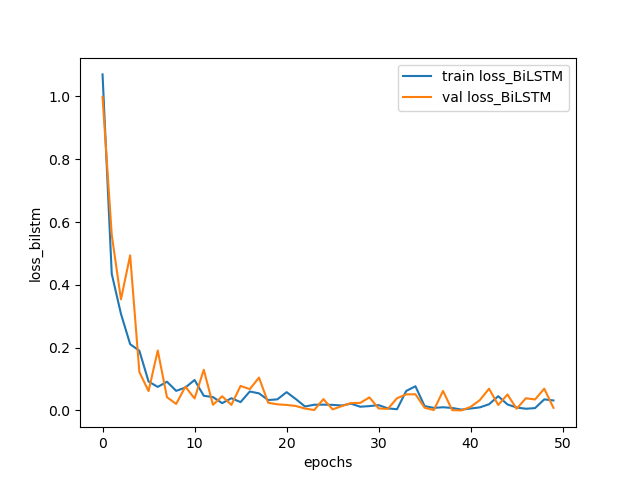
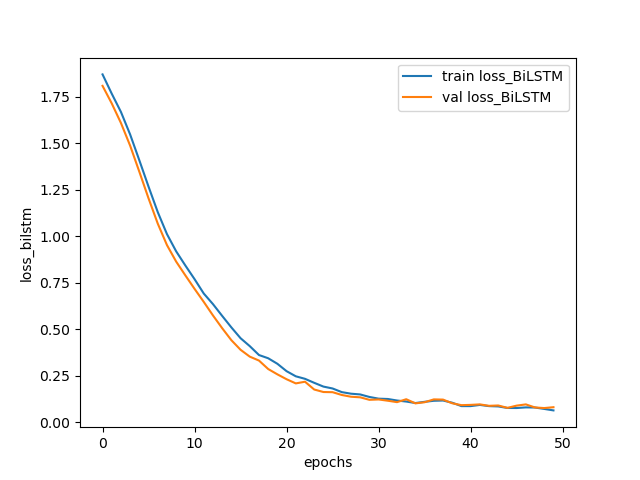
CSI5180_SpeechRecognition_300243080

diff --git a/PycharmProjects/CSI5180_SpeechRecognition/plotResults.py b/PycharmProjects/CSI5180_SpeechRecognition/plotResults.py
@@ -1,24 +1,32 @@
 import matplotlib.pyplot as plt
 import warnings
+import numpy as np
+from tensorflow import string
+
 import getDataset
 from exploratoryDSAnalysis import makePlots
 from featureExtraction import x_features, oneHotEncode
 from modelLSTM import buildLSTMModel, trainModel, buildBiLSTMModel
+from sklearn.model_selection import train_test_split
+from sklearn.metrics import confusion_matrix, f1_score, accuracy_score
+import seaborn as sns
 
 warnings.filterwarnings('ignore')
 
 status, paths_, labels_ = getDataset.formatDataset()
 df = getDataset.createDF(paths_, labels_)
-#makePlots(df)
+# makePlots(df)
 X = x_features(df)
 
 Y = oneHotEncode(df)
 
-modelBiLSTM = buildBiLSTMModel(X)
+X_train, X_test, Y_train, Y_test = train_test_split(X, Y, test_size=0.3, random_state=42)
+
+modelBiLSTM = buildBiLSTMModel()
 modelLSTM = buildLSTMModel()
 
-BiLSTM = trainModel(X, Y, modelBiLSTM)
-LSTM = trainModel(X, Y, modelLSTM)
+BiLSTM = trainModel(X_train, Y_train, modelBiLSTM)
+LSTM = trainModel(X_test, Y_test, modelLSTM)
 
 epochs = list(range(50))
 
@@ -43,7 +51,6 @@ plt.ylabel('accuracy')
 plt.legend()
 fig2.savefig('BiLSTM_Accuracy.png', dpi=fig2.dpi)
 
-
 loss_lstm = LSTM.history['loss']
 val_loss_LSTM = LSTM.history['val_loss']
 loss_bilstm = BiLSTM.history['loss']
@@ -65,6 +72,48 @@ plt.ylabel('loss_bilstm')
 plt.legend()
 fig4.savefig('BiLSTM_Loss.png', dpi=fig4.dpi)
 
+# Preprocess for calculating the scores
+Y_pred_LSTM = modelLSTM.predict(X_test)
+Y_pred_LSTM = np.argmax(Y_pred_LSTM, axis=1)
+Y_pred_BiLSTM = modelBiLSTM.predict(X_test)
+Y_pred_BiLSTM = np.argmax(Y_pred_BiLSTM, axis=1)
+Y_test = np.argmax(Y_test, axis=1)
+cf_matrix_lstm = confusion_matrix(Y_test, Y_pred_LSTM)
+cf_matrix_Bilstm = confusion_matrix(Y_test, Y_pred_BiLSTM)
+print(cf_matrix_lstm)
+print(cf_matrix_Bilstm)
 
+# Confusion matrix of LSTM
+fig5 = plt.figure()
+ax = sns.heatmap(cf_matrix_lstm, annot=True, cmap='Blues')
+ax.set_title('Seaborn Confusion Matrix with labels\n\n')
+ax.set_xlabel('\nPredicted Values')
+ax.set_ylabel('Actual Values ')
+ax.xaxis.set_ticklabels(['Ang', 'Dis', 'Fea', 'Hap', 'Neu', 'Pes', 'Sad'])
+ax.yaxis.set_ticklabels(['Ang', 'Dis', 'Fea', 'Hap', 'Neu', 'Pes', 'Sad'])
+fig5.savefig('ConfusionMatrix_LSTM', dpi=fig5.dpi)
 
+# Confusion matrix from BiLSTM
+fig6 = plt.figure()
+ax = sns.heatmap(cf_matrix_Bilstm, annot=True, cmap='Blues')
+ax.set_title('Seaborn Confusion Matrix with labels\n\n')
+ax.set_xlabel('\nPredicted Values')
+ax.set_ylabel('Actual Values ')
+ax.xaxis.set_ticklabels(['Ang', 'Dis', 'Fea', 'Hap', 'Neu', 'Pes', 'Sad'])
+ax.yaxis.set_ticklabels(['Ang', 'Dis', 'Fea', 'Hap', 'Neu', 'Pes', 'Sad'])
+fig6.savefig('ConfusionMatrix_BiLSTM', dpi=fig6.dpi)
+
+# Get F1 score
+
+f1_score_LSTM = f1_score(Y_test, Y_pred_LSTM, average='macro')
+f1_score_BiLSTM = f1_score(Y_test, Y_pred_BiLSTM, average='macro')
+accuracy_score_LSTM = accuracy_score(Y_test, Y_pred_LSTM)
+accuracy_score_BiLSTM = accuracy_score(Y_test, Y_pred_BiLSTM)
+file2write = open('Results.txt', 'w')
+file2write.write(str(f1_score_LSTM))
+file2write.write(str(f1_score_BiLSTM))
+file2write.write(str(accuracy_score_LSTM))
+file2write.write(str(accuracy_score_BiLSTM))
+file2write.write(str(cf_matrix_lstm))
+file2write.write(str(cf_matrix_Bilstm))
 

diff --git a/PycharmProjects/CSI5180_SpeechRecognition/modelLSTM.py b/PycharmProjects/CSI5180_SpeechRecognition/modelLSTM.py
@@ -1,6 +1,6 @@
 import numpy as np
 from keras.models import Sequential
-from keras.layers import Dense, LSTM, Dropout, Bidirectional, Activation, Embedding
+from keras.layers import Dense, LSTM, Dropout, Bidirectional, Activation, Embedding, ActivityRegularization
 import tensorflow as tf
 
 
@@ -9,17 +9,14 @@ def trainModel(X_, Y_, mod):
     return train
 
 
-def buildBiLSTMModel(X_):
+def buildBiLSTMModel():
     model = Sequential([
-        Bidirectional(LSTM(256, return_sequences=False, input_shape=(40, 1))),
+        Bidirectional(LSTM(128, return_sequences=False, input_shape=(40, 1))),
         Dropout(0.2),
-        Dense(128, activation='relu'),
-        Dropout(0.2),
-        Dense(64, activation='relu'),
-        Dropout(0.2),
+        Dense(64, activation='leaky_relu'),
         Dense(7, activation='softmax')
     ])
-    model.compile(loss='categorical_crossentropy', optimizer=tf.keras.optimizers.Adam(learning_rate=1e-3),
+    model.compile(loss='categorical_crossentropy', optimizer=tf.keras.optimizers.Adam(learning_rate=1e-4),
                   metrics=['accuracy'])
     # print(model.summary())
     return model
@@ -27,15 +24,12 @@ def buildBiLSTMModel(X_):
 
 def buildLSTMModel():
     model = Sequential([
-        LSTM(256, return_sequences=False, input_shape=(40, 1)),
+        LSTM(128, return_sequences=False, input_shape=(40, 1)),
         Dropout(0.2),
-        Dense(128, activation='relu'),
-        Dropout(0.2),
-        Dense(64, activation='relu'),
-        Dropout(0.2),
+        Dense(64, activation='leaky_relu'),
         Dense(7, activation='softmax')
     ])
-    model.compile(loss='categorical_crossentropy', optimizer=tf.keras.optimizers.Adam(learning_rate=1e-3),
+    model.compile(loss='categorical_crossentropy', optimizer=tf.keras.optimizers.Adam(learning_rate=1e-4),
                   metrics=['accuracy'])
     print(model.summary())
     return model

diff --git a/PycharmProjects/CSI5180_SpeechRecognition/getDataset.py b/PycharmProjects/CSI5180_SpeechRecognition/getDataset.py
@@ -12,8 +12,6 @@ def formatDataset():
             label = fn.split('_')[-1]
             label = label.split('.')[0]
             labels.append(label.lower())
-        if len(paths) == 2800:
-            break
     print(len(paths))
     print(labels[:5])
     return "Dataset is loaded", paths, labels
@@ -33,9 +31,8 @@ def head(dataframe):
 def valueCounts(dataframe):
     return dataframe['label'].value_counts()
 
-
 # Debug:
-#status, paths_, labels_ = formatDataset()
-#dframe = createDF(paths_, labels_)
-#print(head(dframe))
-#print(valueCounts(dframe))
+# status, paths_, labels_ = formatDataset()
+# dframe = createDF(paths_, labels_)
+# print(head(dframe))
+# print(valueCounts(dframe))
